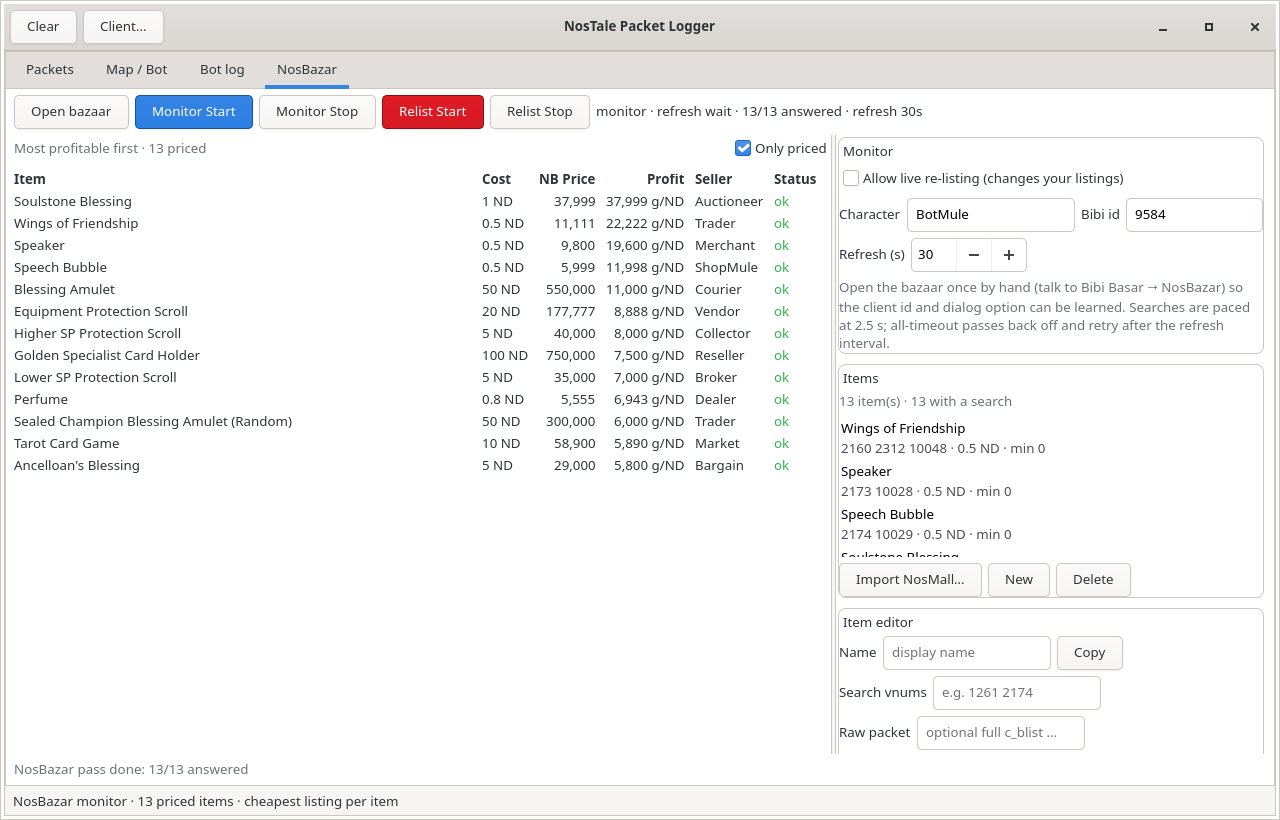
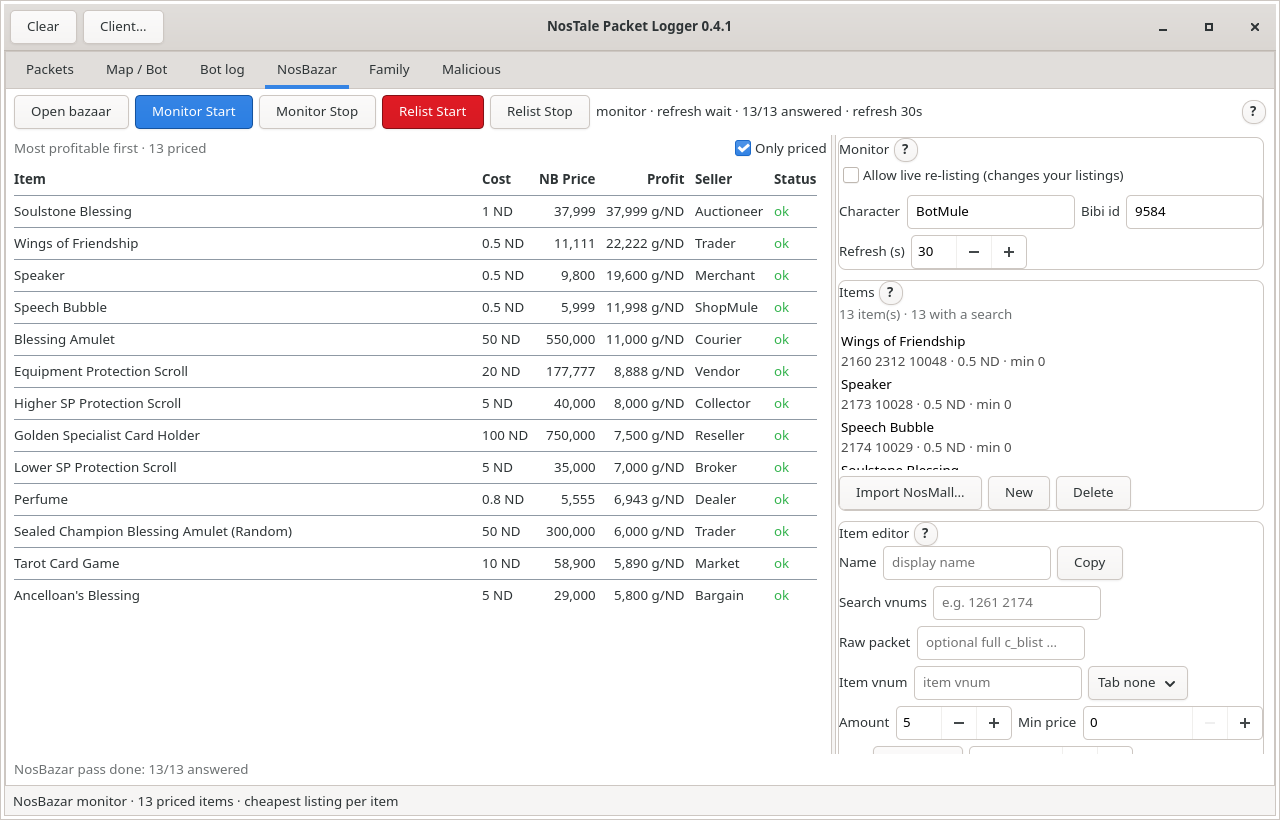
NosBazar: thin rules between result rows
The Cost (ND) / NB Price / Profit columns were hard to follow across
long wrapped item names. The results grid now draws a 1px rule under
the header and between every pair of rows (no trailing line), via a
bazar-sep CSS class. The README screenshot is regenerated with the new
look; the bazar smoke asserts the separator under the header.

Host 0.4.2.

diff --git a/linux/host/ntpl/gui.py b/linux/host/ntpl/gui.py
@@ -2050,7 +2050,25 @@ class Application(Gtk.Application):
             label.set_markup(f"<b>{title}</b>")
             label.set_xalign(align)
             grid.attach(label, column, 0, 1, 1)
-        for row_index, quote in enumerate(visible, start=1):
+
+        # Thin lines between the rows: without them the eye cannot tell which
+        # Cost/ND or NB Price cell belongs to which item in a long list. The
+        # header gets its own line, then each data row is followed by one
+        # except the last (no trailing line).
+        columns = len(headers)
+
+        def separator(row: int) -> None:
+            line = Gtk.Separator(orientation=Gtk.Orientation.HORIZONTAL)
+            line.add_css_class("bazar-sep")
+            line.set_hexpand(True)
+            line.set_size_request(-1, 1)
+            line.set_margin_top(3)
+            line.set_margin_bottom(3)
+            grid.attach(line, 0, row, columns, 1)
+
+        separator(1)
+        for row_index, quote in enumerate(visible):
+            grid_row = 2 + row_index * 2
             price = "n/a" if quote.price is None else f"{quote.price:,}"
             seller = quote.seller.replace("�", "").strip()
             cells = (
@@ -2105,7 +2123,9 @@ class Application(Gtk.Application):
                     label.set_tooltip_text(
                         " | ".join(quote.listing.raw_fields)
                     )
-                grid.attach(label, column, row_index, 1, 1)
+                grid.attach(label, column, grid_row, 1, 1)
+            if row_index < len(visible) - 1:
+                separator(grid_row + 1)
         self.bazar_results_box.append(grid)
 
     def _bazar_seed_from_log(self) -> None:
@@ -3973,6 +3993,10 @@ class Application(Gtk.Application):
             b".bazar-ok { color: #33b34d; }"
             b".bazar-bad { color: #d93025; }"
             b".bazar-warn { color: #b8860b; }"
+            # Thin visible rules between the NosBazar result rows, so the
+            # eye can follow an item across the Cost/NB Price/Profit columns.
+            b"separator.bazar-sep { background-color: #8f99a4;"
+            b" min-height: 1px; }"
         )
         display = Gdk.Display.get_default()
         if display is not None and hasattr(Gtk.StyleContext, "add_provider_for_display"):

diff --git a/linux/test/gui_bazar_smoke.py b/linux/test/gui_bazar_smoke.py
@@ -17,7 +17,7 @@ import gi
 
 gi.require_version("Gtk", "4.0")
 
-from gi.repository import GLib
+from gi.repository import GLib, Gtk
 
 from ntpl.bazar import BazarItem, build_search_packet, load_config
 from ntpl.gui import Application
@@ -156,6 +156,23 @@ def main() -> int:
             app.quit()
         return False
 
+    def separator_count() -> int:
+        """The rule lines the results grid draws (one under the header plus
+        one between each pair of rows)."""
+        box = app.bazar_results_box
+        grid = box.get_first_child() if box is not None else None
+        if grid is None:
+            return 0
+        count = 0
+        child = grid.get_first_child()
+        while child is not None:
+            if isinstance(child, Gtk.Separator) and child.has_css_class(
+                "bazar-sep"
+            ):
+                count += 1
+            child = child.get_next_sibling()
+        return count
+
     def check() -> bool:
         try:
             lines = list(server.received)
@@ -178,6 +195,7 @@ def main() -> int:
             no_register = not any(
                 line.startswith("SEND|c_reg ") for line in lines
             )
+            separators = separator_count()
             config_path = os.environ.get("NTPL_BAZAR_CONFIG")
             saved = False
             if config_path:
@@ -196,13 +214,15 @@ def main() -> int:
                 and profit == "27,596 g/ND"
                 and no_register
                 and saved
+                and separators == 1
                 and app.bazar.mode == "monitor"
             )
             result["detail"] = (
                 f"opened={bool(opened)} init={bool(empty_init)} "
                 f"search={bool(searches)} price={price} seller={seller} "
                 f"profit={profit!r} no_register={no_register} "
-                f"saved={saved} mode={app.bazar.mode} phase={app.bazar.phase} "
+                f"saved={saved} separators={separators} "
+                f"mode={app.bazar.mode} phase={app.bazar.phase} "
                 f"status={app.bazar_status.get_text()!r}"
             )
         except Exception as exc:  # noqa: BLE001

diff --git a/linux/host/ntpl/__init__.py b/linux/host/ntpl/__init__.py
@@ -16,7 +16,7 @@ from .protocol import (
     default_port,
 )
 
-__version__ = "0.4.1"
+__version__ = "0.4.2"
 
 __all__ = [
     "DEFAULT_HOST",

diff --git a/README.md b/README.md
@@ -45,7 +45,8 @@ workflow of [`TaraJura/Nostale-NB`](https://github.com/TaraJura/Nostale-NB):
   pass; the next refresh starts after the configured interval.
 - **Results** — parses the real 15-field `rc_blist` response, keeps the
   cheapest visible listing per item, and shows the seller, gold price, profit
-  (gold per NosMall ND or an NPC-gold markup) and status. Results are sorted
+  (gold per NosMall ND or an NPC-gold markup) and status. Rows are separated by thin rules so each item's **Cost** (ND) and
+  **NB Price** stay aligned with the right row. Results are sorted
   **most profitable first**; the **Only priced** filter (on by default) hides
   rows with no listing/answer yet, so timeouts and idle rows never crowd the
   table. Item names are rendered in full (wrapped, never ellipsized). Rows

diff --git a/docs/bazar.md b/docs/bazar.md
@@ -37,6 +37,8 @@ The packet formats and live captures are in
      `Tab` is Equip (0), Main (1) or Etc (2); `Min price` is the floor.
    - **Cost** — `NosMall ND` (fractional allowed) or `NPC gold`; this drives
      the profit column. Leave `No cost` for reference-only rows.
+   - Thin rules separate the result rows (and one under the header), so the
+     **Cost** (ND) and **NB Price** columns stay visually tied to their item.
    - The results table is always sorted by profit ratio, highest first. The
      **Only priced** filter (on by default) hides rows with no listing,
      timeout, or no answer yet; untick it to see those rows at the bottom.
